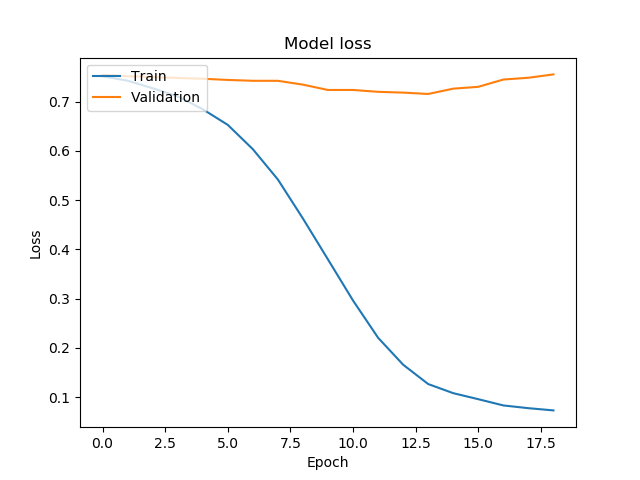
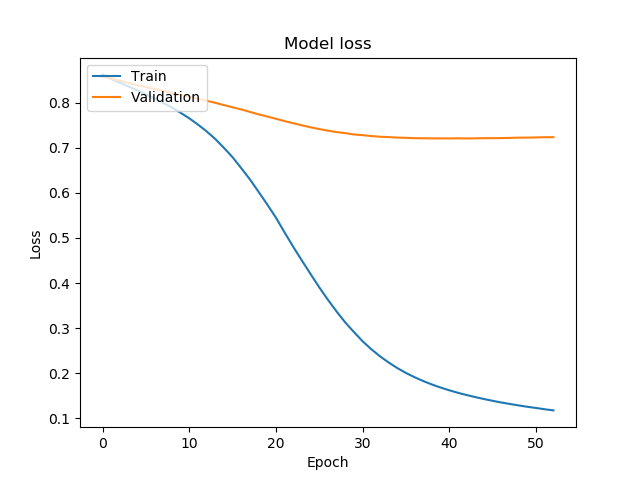
experiments on cnn model

diff --git a/Code/evaluate.py b/Code/evaluate.py
@@ -6,7 +6,8 @@ import pandas as pd
 import tensorflow as tf
 import json
 from tqdm import tqdm
-from sklearn.metrics import classification_report, f1_score, precision_score, recall_score, accuracy_score
+from sklearn.metrics import classification_report, f1_score, precision_score, recall_score, accuracy_score, \
+    roc_auc_score
 
 sys.path.append(os.path.abspath('.'))
 from Code.config import Config
@@ -41,7 +42,7 @@ with tqdm(total=len(data)) as p_bar:
         p_bar.update(1)
 
 data['Lyrics'] = processed_lyrics
-# data['Label'] = data['Label'].replace({'Happy': 1.0, 'Sad': 0.0})
+y_test_num = np.array(list(data['Label'].replace({'Happy': 1.0, 'Sad': 0.0})))
 
 x_test = np.array(list(data['Lyrics']))
 y_test = np.array(list(data['Label']))
@@ -51,7 +52,6 @@ model = tf.keras.models.load_model(Config.MODEL_PATH)
 predictions = model.predict(x_test)
 
 y_pred = ['Happy' if val >= 0.5 else 'Sad' for val in predictions.reshape(-1)]
-
 
 predictions_dict = {
     'actual': y_test,
@@ -63,7 +63,7 @@ class_report = classification_report(y_test, y_pred, output_dict=True)
 print(class_report)
 
 accuracy = {
-    'f1-accuracy': accuracy_score(y_test, y_pred)
+    'accuracy': accuracy_score(y_test, y_pred)
 }
 
 happy_f1_metrics = {
@@ -102,6 +102,14 @@ total_recall_metrics = {
     'f1-score': recall_score(y_test, y_pred, average='macro')
 }
 
+print(y_test_num)
+
+print(predictions.reshape(-1))
+
+roc_auc_metrics = {
+    'roc_auc_score': roc_auc_score(y_test_num, predictions.reshape(-1), average='macro')
+}
+
 os.makedirs(Config.METRICS_DIR, exist_ok=True)
 
 with open(os.path.join(Config.METRICS_DIR, 'f1_score.json'), 'w') as file:
@@ -133,6 +141,12 @@ with open(os.path.join(Config.METRICS_DIR, 'sad_precision.json'), 'w') as file:
 
 with open(os.path.join(Config.METRICS_DIR, 'sad_recall.json'), 'w') as file:
     json.dump(sad_recall_metrics, file)
+
+with open(os.path.join(Config.METRICS_DIR, 'roc_auc.json'), 'w') as file:
+    json.dump(roc_auc_metrics, file)
+
+with open(os.path.join(Config.METRICS_DIR, 'accuracy.json'), 'w') as file:
+    json.dump(accuracy, file)
 
 
 # ---------------------------------------------------------------------------

diff --git a/Code/train.py b/Code/train.py
@@ -99,8 +99,10 @@ with tf.device('/GPU:0'):
             'accuracy'
         ]
     )
+
+    tf.keras.utils.plot_model(model, to_file=os.path.join(Config.PLOT_DIR, 'model_arc.png'), show_shapes=True, show_layer_names=True)
     early_stopping_cp = tf.keras.callbacks.EarlyStopping(monitor='val_loss', mode='min',
-                                                         patience=5, restore_best_weights=True)
+                                                         patience=10, restore_best_weights=True)
 
     history = model.fit(
         x,
